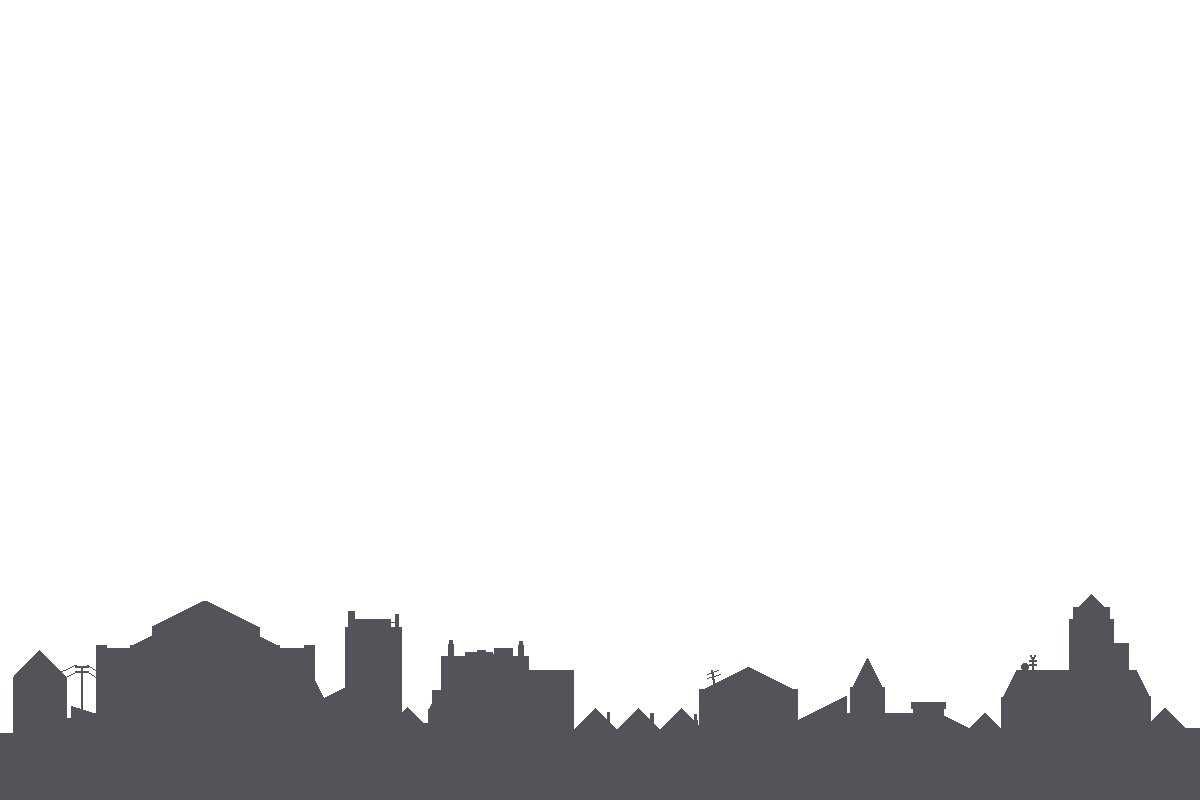
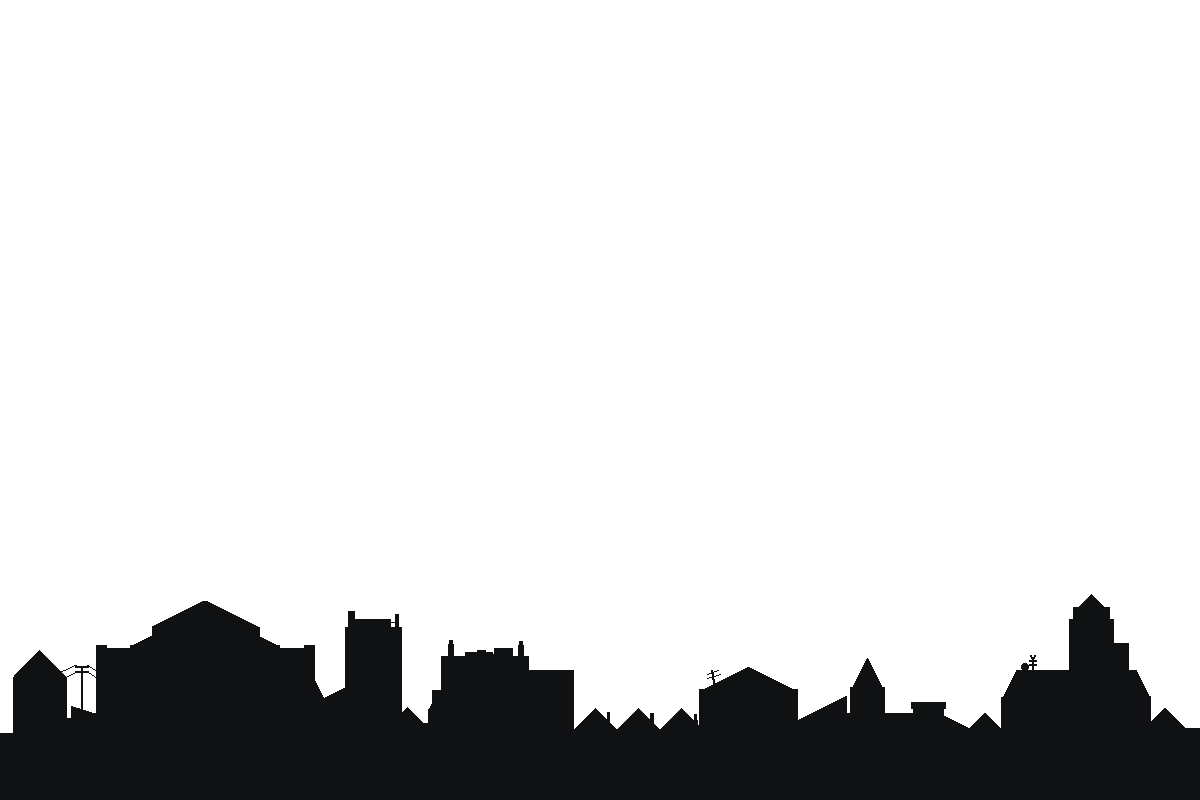
Chimneys + city scape
added the chimney main tile to all the chimneys, added the 2 other backgrounds with different speeds to give parallax effect.

Changed region(s): [[0.0, 0.75, 1.0, 1.0]]

diff --git a/README.md b/README.md
@@ -21,7 +21,7 @@ Obstacles: Birds
 
 ## Roadmap
 
-1. Add chimney art
+1. Add chimney art -done
 2. Have end to game: santa can die from hitting stuff - he has x lives
 3. Add something that does damage
 4. Add Health
